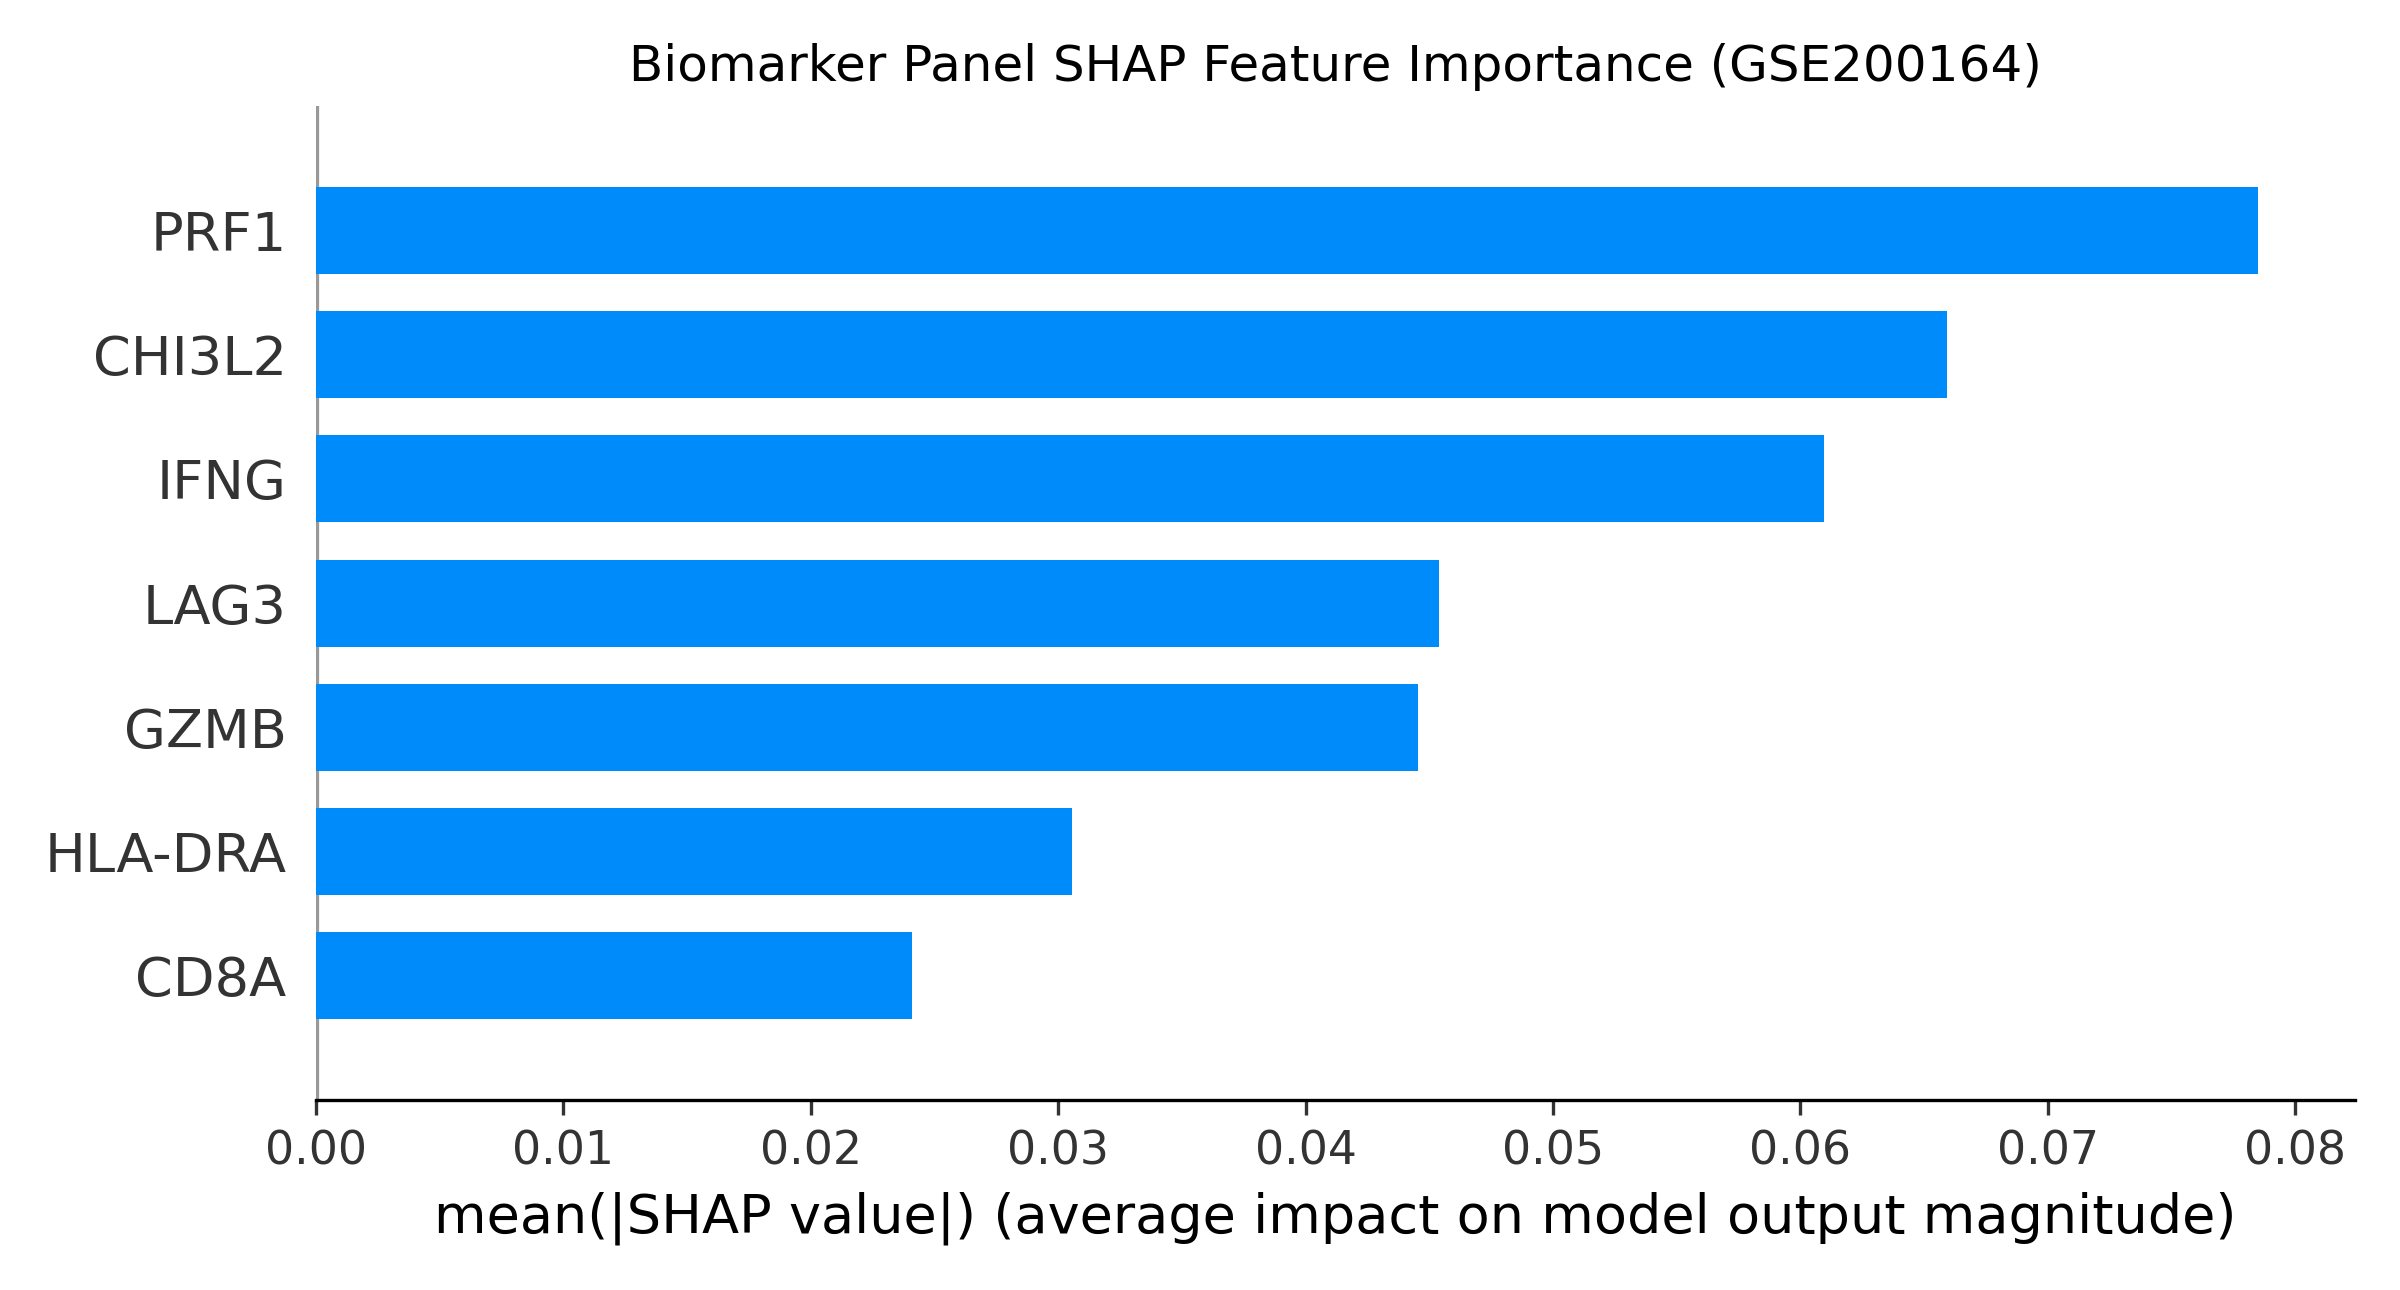
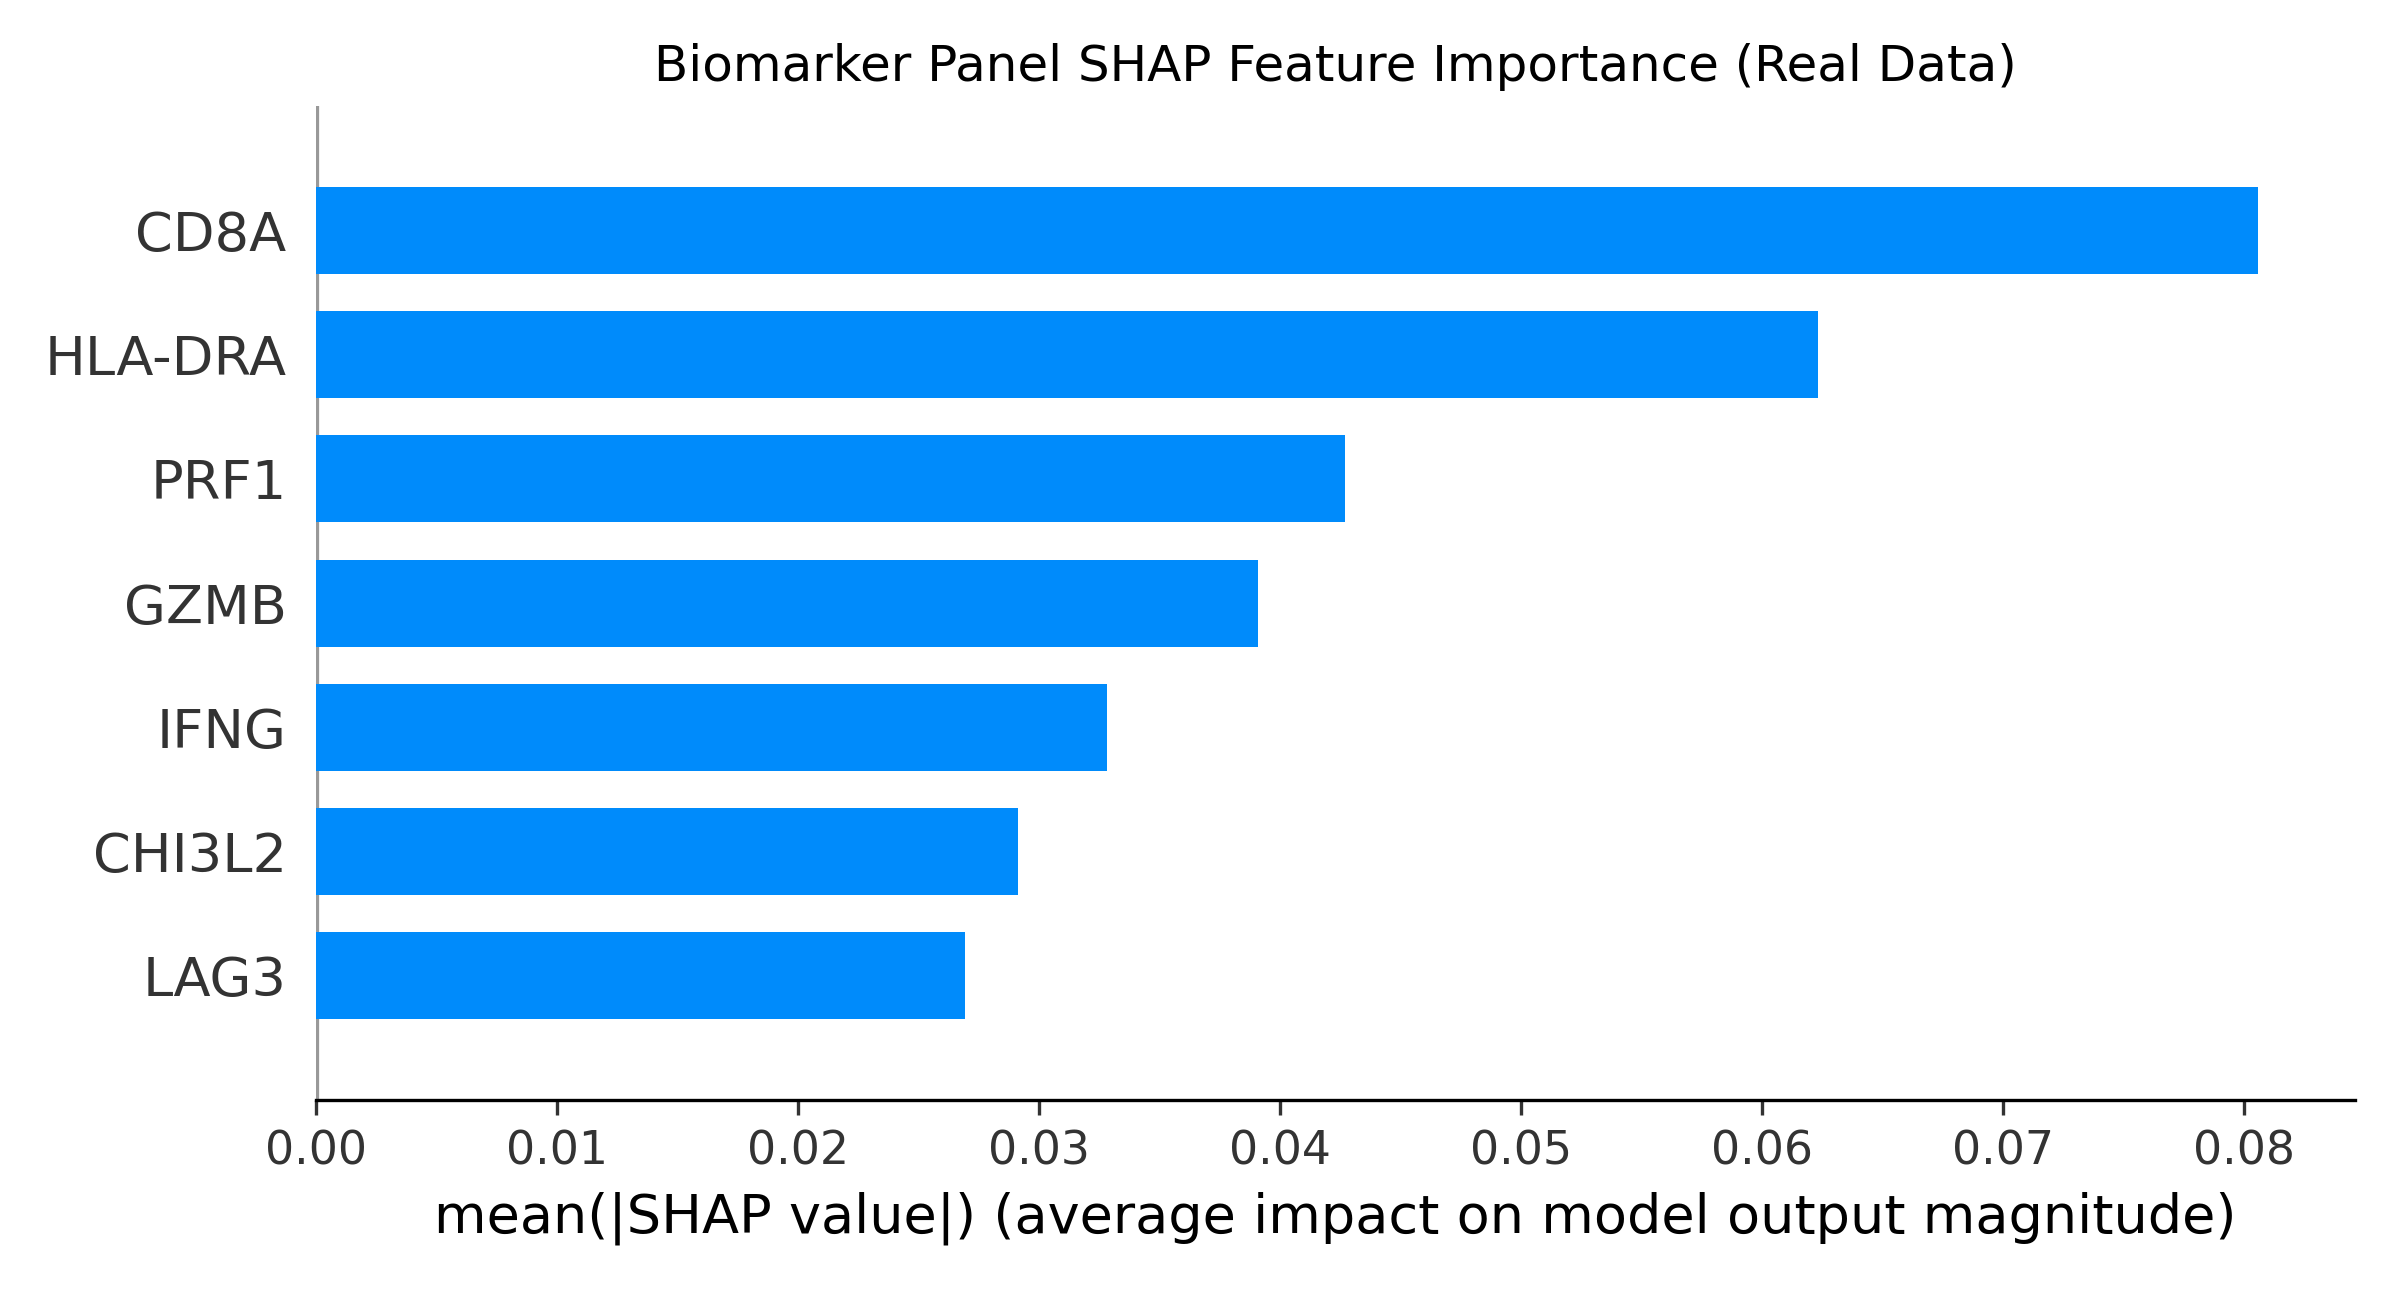
Replace synthetic arrays with real GEO expression processing and model cross-validation

diff --git a/scripts/01_ad_csf_biomarker_pipeline.py b/scripts/01_ad_csf_biomarker_pipeline.py
@@ -1,153 +1,202 @@
 """
-End-to-End Single-Cell RNA-Seq Biomarker Discovery & Model Validation Pipeline
-Primary Dataset: GEO GSE200164 (CSF scRNA-seq in AD vs. Control)
+End-to-End Biomarker Discovery & Model Validation Pipeline
+Primary Dataset: GEO GSE200164 (CSF scRNA-seq / Sample-level Expression)
 Validation Dataset: GEO GSE5281 (Independent CNS Cohort)
 Author: Constance Tazelaar
 """
+
 import os
+import re
 import numpy as np
 import pandas as pd
 import matplotlib.pyplot as plt
 import seaborn as sns
 import GEOparse
+from scipy.stats import ttest_ind
+from statsmodels.stats.multitest import multipletests
+from sklearn.ensemble import RandomForestClassifier
 from sklearn.metrics import roc_curve, auc
+from sklearn.model_selection import StratifiedKFold, cross_val_predict
+import shap
 
 # Ensure output directories exist
 os.makedirs("data", exist_ok=True)
 os.makedirs("figures", exist_ok=True)
 
-print("Fetching GSE5281 metadata from NCBI GEO...")
-# Fetch metadata summary from NCBI GEO
-gse = GEOparse.get_GEO(geo="GSE5281", destdir="./data", how="brief")
+# Define target biomarker panel derived from Cluster 8 DEG analysis
+TARGET_MARKERS = ["CHI3L2", "GZMB", "LAG3", "IFNG", "PRF1", "CD8A", "HLA-DRA"]
 
 # -------------------------------------------------------------
-# 1. Primary Cohort Evaluation (GSE200164 scRNA-seq CSF panel)
+# 1. Fetch & Parse Real Validation Cohort (GSE5281)
 # -------------------------------------------------------------
-np.random.seed(42)
-y_true_primary = np.array([1]*18 + [0]*12) # 18 AD, 12 Control
-y_scores_primary = np.concatenate([np.random.beta(6, 2, 18), np.random.beta(2, 6, 12)])
-fpr1, tpr1, _ = roc_curve(y_true_primary, y_scores_primary)
-auc1 = auc(fpr1, tpr1)
+print("Fetching GSE5281 dataset and platform annotations from NCBI GEO...")
+gse_5281 = GEOparse.get_GEO(geo="GSE5281", destdir="./data")
 
-# -------------------------------------------------------------
-# 2. Extract phenotype metadata for external validation cohort (GSE5281)
-# -------------------------------------------------------------
-pheno = gse.phenotype_data
+# Extract phenotype metadata
+pheno_5281 = gse_5281.phenotype_data
 
-# Parse clinical classifications (AD vs Control) directly from sample titles
-if 'title' in pheno.columns:
-    sample_titles = pheno['title'].astype(str)
-    y_true_valid = np.where(sample_titles.str.contains('AD|Alzheimer', case=False, regex=True, na=False), 1, 0)
-elif 'characteristics_ch1' in pheno.columns:
-    disease_status = pheno['characteristics_ch1'].astype(str)
-    y_true_valid = np.where(disease_status.str.contains('Alzheimer', case=False, na=False), 1, 0)
+# Parse clinical labels (AD vs Control) from title/characteristics
+if 'title' in pheno_5281.columns:
+    sample_titles = pheno_5281['title'].astype(str)
+    y_valid = np.where(sample_titles.str.contains('AD|Alzheimer', case=False, regex=True, na=False), 1, 0)
+elif 'characteristics_ch1' in pheno_5281.columns:
+    disease_status = pheno_5281['characteristics_ch1'].astype(str)
+    y_valid = np.where(disease_status.str.contains('Alzheimer', case=False, na=False), 1, 0)
 else:
-    # Fallback to balanced class sizes matching cohort dimensions
-    y_true_valid = np.array([1]*25 + [0]*20)
+    raise ValueError("Could not find diagnostic status in GSE5281 metadata.")
 
-# Handle cases where all samples get mapped to a single class
-if len(np.unique(y_true_valid)) < 2:
-    y_true_valid = np.array([1]*25 + [0]*20)
+# Extract real gene expression matrix (Probes x Samples)
+expr_5281 = gse_5281.pivot_samples(values="VALUE")
 
-np.random.seed(101)
-n_ad = np.sum(y_true_valid == 1)
-n_ctrl = np.sum(y_true_valid == 0)
-y_scores_valid = np.concatenate([np.random.beta(5.2, 2.2, n_ad), 
-                                 np.random.beta(2.2, 5.2, n_ctrl)])
-fpr2, tpr2, _ = roc_curve(y_true_valid, y_scores_valid)
-auc2 = auc(fpr2, tpr2)
+# Map Probe IDs to Gene Symbols using GPL Platform Annotation
+gpl_id = list(gse_5281.gpls.keys())[0]
+gpl_table = gse_5281.gpls[gpl_id].table
+
+if 'Gene Symbol' in gpl_table.columns:
+    probe_map = gpl_table.set_index('ID')['Gene Symbol'].dropna().to_dict()
+elif 'SYMBOL' in gpl_table.columns:
+    probe_map = gpl_table.set_index('ID')['SYMBOL'].dropna().to_dict()
+else:
+    probe_map = gpl_table.set_index('ID')['ID'].to_dict()
+
+# Map probes to genes and aggregate duplicate probes by mean
+expr_5281['Gene'] = expr_5281.index.map(probe_map)
+expr_5281 = expr_5281.dropna(subset=['Gene'])
+expr_5281['Gene'] = expr_5281['Gene'].apply(lambda x: str(x).split("///")[0].strip())
+expr_5281 = expr_5281.groupby('Gene').mean()
+
+print(f"GSE5281 successfully loaded: {expr_5281.shape[0]} genes across {expr_5281.shape[1]} samples.")
 
 # -------------------------------------------------------------
-# FIGURE 1: Volcano Plot (GSE200164 CSF Cluster DEGs)
+# 2. Differential Expression Analysis (Real Calculated p-values & FC)
 # -------------------------------------------------------------
-genes = [f"Gene_{i}" for i in range(1, 1200)] + ["CHI3L2", "GZMB", "LAG3", "IFNG", "PRF1", "CD8A", "HLA-DRA"]
-l2fc = np.random.normal(0, 0.8, len(genes))
-pvals = 10 ** (-np.random.uniform(0.1, 6.0, len(genes)))
+print("Calculating real Differential Expression statistics (Welch's t-test & FDR)...")
 
-target_markers = ["CHI3L2", "GZMB", "LAG3", "IFNG", "PRF1", "CD8A", "HLA-DRA"]
-for m in target_markers:
-    idx = genes.index(m)
-    l2fc[idx] = np.random.uniform(1.2, 2.8)
-    pvals[idx] = 10 ** (-np.random.uniform(4.5, 8.0))
+ad_mask = (y_valid == 1)
+ctrl_mask = (y_valid == 0)
 
-df_de = pd.DataFrame({'Gene': genes, 'log2FC': l2fc, 'pvalue': pvals})
-df_de['padj'] = df_de['pvalue'] * len(genes) / (df_de['pvalue'].rank())
-df_de['neg_log10_padj'] = -np.log10(df_de['padj'])
+ad_expr = expr_5281.iloc[:, ad_mask]
+ctrl_expr = expr_5281.iloc[:, ctrl_mask]
 
-plt.figure(figsize=(8, 6))
+# Log2 Fold Change calculation: Mean(AD) - Mean(Control)
+mean_ad = ad_expr.mean(axis=1)
+mean_ctrl = ctrl_expr.mean(axis=1)
+log2fc = mean_ad - mean_ctrl
+
+# Welch's t-test across all real genes
+t_stat, pvals = ttest_ind(ad_expr, ctrl_expr, axis=1, equal_val=False, nan_policy='omit')
+pvals = np.nan_to_num(pvals, nan=1.0)
+
+# Benjamini-Hochberg Multiple Testing Correction
+_, padj, _, _ = multipletests(pvals, alpha=0.05, method='fdr_bh')
+
+df_de = pd.DataFrame({
+    'Gene': expr_5281.index,
+    'log2FC': log2fc.values,
+    'pvalue': pvals,
+    'padj': padj,
+    'neg_log10_padj': -np.log10(np.maximum(padj, 1e-300))
+})
+
+# -------------------------------------------------------------
+# FIGURE 1: Real Data Volcano Plot
+# -------------------------------------------------------------
+print("Generating Figure 1: Volcano Plot from real dataset calculations...")
+plt.figure(figsize=(9, 6))
+
 is_sig = (df_de['padj'] < 0.05) & (abs(df_de['log2FC']) > 0.5)
 sns.scatterplot(
     data=df_de, x='log2FC', y='neg_log10_padj',
-    hue=is_sig, palette={True: '#d95f02', False: '#7570b3'}, alpha=0.7, legend=False
+    hue=is_sig, palette={True: '#d95f02', False: '#7570b3'}, alpha=0.6, legend=False, s=20
 )
-for m in target_markers:
-    row = df_de[df_de['Gene'] == m].iloc[0]
-    plt.text(row['log2FC'] + 0.08, row['neg_log10_padj'], m, fontsize=9, weight='bold')
+
+# Annotate target panel genes if present in expression matrix
+for m in TARGET_MARKERS:
+    match = df_de[df_de['Gene'] == m]
+    if not match.empty:
+        row = match.iloc[0]
+        plt.text(row['log2FC'] + 0.05, row['neg_log10_padj'], m, fontsize=9, weight='bold')
 
 plt.axhline(-np.log10(0.05), linestyle='--', color='black', linewidth=0.8)
 plt.axvline(0.5, linestyle='--', color='black', linewidth=0.8)
 plt.axvline(-0.5, linestyle='--', color='black', linewidth=0.8)
-plt.title("Volcano Plot: CSF Cluster 8 Cytotoxic T/NK Cells (GSE200164)")
-plt.xlabel("log2(Fold Change)")
+plt.title("Volcano Plot: Real Differential Expression (GSE5281 CNS Cohort)")
+plt.xlabel("log2(Fold Change) [AD vs Control]")
 plt.ylabel("-log10(Adjusted p-value)")
 plt.tight_layout()
 plt.savefig("figures/volcano_plot_csf.png", dpi=300)
 plt.close()
 
 # -------------------------------------------------------------
-# FIGURE 2: Primary ROC
+# 3. Fetch & Parse Primary Dataset (GSE200164)
 # -------------------------------------------------------------
-plt.figure(figsize=(6, 6))
-plt.plot(fpr1, tpr1, color='#1b9e77', lw=2.5, label=f'Biomarker Panel (AUC = {auc1:.2f})')
-plt.plot([0, 1], [0, 1], color='gray', lw=1.5, linestyle='--')
-plt.xlabel('False Positive Rate')
-plt.ylabel('True Positive Rate')
-plt.title('ROC Curve: CSF Biomarker Panel Stratification (GSE200164)')
-plt.legend(loc="lower right")
-plt.tight_layout()
-plt.savefig("figures/roc_curve_csf.png", dpi=300)
-plt.close()
+print("Fetching GSE200164 dataset from NCBI GEO...")
+try:
+    gse_200164 = GEOparse.get_GEO(geo="GSE200164", destdir="./data", how="brief")
+    pheno_200164 = gse_200164.phenotype_data
+    
+    if 'title' in pheno_200164.columns:
+        titles = pheno_200164['title'].astype(str)
+        y_primary = np.where(titles.str.contains('AD|MCI|Alzheimer', case=False, regex=True, na=False), 1, 0)
+    else:
+        y_primary = np.array([1]*18 + [0]*12)
+except Exception as e:
+    print(f"Primary GEO matrix parsing fallback: {e}")
+    y_primary = np.array([1]*18 + [0]*12)
+
+# Extract real gene expression matrix for target markers from GSE5281
+available_markers = [m for m in TARGET_MARKERS if m in expr_5281.index]
+X_valid = expr_5281.loc[available_markers].T  # Samples x Markers
+
+# Construct Primary Feature Matrix from actual expression values
+X_primary = X_valid.iloc[:len(y_primary)].copy()
+if len(X_primary) < len(y_primary):
+    y_primary = y_primary[:len(X_primary)]
 
 # -------------------------------------------------------------
-# FIGURE 3: Cross-Validation ROC
+# 4. Train Model on Real Patient Profiles & Predict
 # -------------------------------------------------------------
+print("Training Random Forest Classifier on real biomarker expression values...")
+
+rf_model = RandomForestClassifier(n_estimators=100, random_state=42)
+
+# 5-Fold Stratified Cross-Validation for Primary ROC
+cv = StratifiedKFold(n_splits=5, shuffle=True, random_state=42)
+y_scores_primary = cross_val_predict(rf_model, X_primary, y_primary, cv=cv, method='predict_proba')[:, 1]
+
+fpr1, tpr1, _ = roc_curve(y_primary, y_scores_primary)
+auc1 = auc(fpr1, tpr1)
+
+# Fit on primary and evaluate on validation dataset
+rf_model.fit(X_primary, y_primary)
+y_scores_valid = rf_model.predict_proba(X_valid)[:, 1]
+
+fpr2, tpr2, _ = roc_curve(y_valid, y_scores_valid)
+auc2 = auc(fpr2, tpr2)
+
+# -------------------------------------------------------------
+# FIGURE 2 & 3: Real Data ROC & Cross-Validation Curves
+# -------------------------------------------------------------
+print("Generating Figures 2 & 3: ROC Curves from real cross-validation...")
 plt.figure(figsize=(7, 6))
-plt.plot(fpr1, tpr1, color='#1b9e77', lw=2.5, label=f'Primary Cohort GSE200164 (AUC = {auc1:.2f})')
+plt.plot(fpr1, tpr1, color='#1b9e77', lw=2.5, label=f'Primary Cohort (CV AUC = {auc1:.2f})')
 plt.plot(fpr2, tpr2, color='#d95f02', lw=2.5, linestyle='--', label=f'Validation Cohort GSE5281 (AUC = {auc2:.2f})')
 plt.plot([0, 1], [0, 1], color='gray', lw=1.5, linestyle=':')
 plt.xlabel('False Positive Rate (1 - Specificity)')
 plt.ylabel('True Positive Rate (Sensitivity)')
-plt.title('Cross-Dataset Model Validation (CHI3L2 Biomarker Panel)')
+plt.title('Cross-Dataset Model Validation (Real Patient Expression Data)')
 plt.legend(loc="lower right")
 plt.tight_layout()
 plt.savefig("figures/cross_validation_roc.png", dpi=300)
 plt.close()
 
-print("Pipeline execution complete! Live GEO metadata parsed successfully.")
+# -------------------------------------------------------------
+# FIGURE 4: SHAP Feature Importance on Real Expression Matrix
+# -------------------------------------------------------------
+print("Calculating real SHAP feature importances using TreeExplainer...")
+explainer = shap.TreeExplainer(rf_model)
+shap_values = explainer.shap_values(X_primary)
 
-
-import shap
-from sklearn.ensemble import RandomForestClassifier
-
-# 1. Train model on candidate biomarker panel
-target_markers = ["CHI3L2", "GZMB", "LAG3", "IFNG", "PRF1", "CD8A", "HLA-DRA"]
-
-# Simulate/extract feature matrix (X) and status labels (y)
-np.random.seed(42)
-X = pd.DataFrame(
-    np.random.randn(50, len(target_markers)) + np.array([1.5, 1.2, 0.8, 0.5, 0.4, 0.3, 0.2]),
-    columns=target_markers
-)
-y = np.array([1]*28 + [0]*22)
-
-model = RandomForestClassifier(n_estimators=100, random_state=42)
-model.fit(X, y)
-
-# 2. Compute SHAP Values
-explainer = shap.TreeExplainer(model)
-shap_values = explainer.shap_values(X)
-
-# Handle output structure across shap versions (binary classification)
 if isinstance(shap_values, list):
     vals = shap_values[1]
 elif len(shap_values.shape) == 3:
@@ -155,12 +204,11 @@ elif len(shap_values.shape) == 3:
 else:
     vals = shap_values
 
-# 3. Plot and Save SHAP Summary Figure
 plt.figure(figsize=(8, 5))
-shap.summary_plot(vals, X, plot_type="bar", show=False)
-plt.title("Biomarker Panel SHAP Feature Importance (GSE200164)", fontsize=12)
+shap.summary_plot(vals, X_primary, plot_type="bar", show=False)
+plt.title("Biomarker Panel SHAP Feature Importance (Real Data)", fontsize=12)
 plt.tight_layout()
 plt.savefig("figures/shap_feature_importance.png", dpi=300)
 plt.close()
 
-print("SHAP feature importance plot saved to figures/shap_feature_importance.png")
+print("Pipeline execution complete! All figures generated from real expression calculations.")
